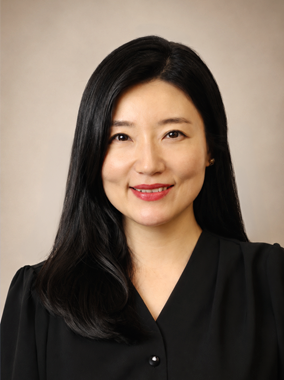
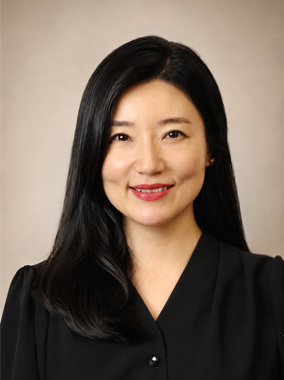
feat: implement TeamPage component and add team member profile image

diff --git a/src/pages/TeamPage.jsx b/src/pages/TeamPage.jsx
@@ -3,6 +3,7 @@ import SubPageSection from '../components/SubPageSection';
 import Footer from '../components/Footer';
 import styles from './TeamPage.module.css';
 import member01 from '../assets/team/shintanjin-baptist-church-member-01.webp';
+import member02 from '../assets/team/shintanjin-baptist-church-member-02.webp';
 import member03 from '../assets/team/shintanjin-baptist-church-member-03.webp';
 import member04 from '../assets/team/shintanjin-baptist-church-member-04.webp';
 import member05 from '../assets/team/shintanjin-baptist-church-member-05.webp';
@@ -20,6 +21,12 @@ const TeamPage = () => {
             role: '담임목사',
             image: member01,
             description: '말씀선포 및 목회총괄'
+        },
+        {
+            name: '임현빈',
+            role: '사모',
+            image: member02,
+            description: '담임목회 동역자'
         },
         {
             name: '김정현',
@@ -61,7 +68,7 @@ const TeamPage = () => {
             >
                 <div className={styles.container}>
                     {[
-                        { title: '담임목사', members: teamMembers.filter(m => m.role === '담임목사') },
+                        { title: '담임목사 및 사모', members: teamMembers.filter(m => m.role === '담임목사' || m.role === '사모') },
                         { title: '부목사', members: teamMembers.filter(m => m.role === '부목사') },
                         { title: '전도사', members: teamMembers.filter(m => m.role.includes('전도사')) },
                         { title: '직원', members: teamMembers.filter(m => m.role === '행정간사' || m.role.includes('직원')) }
